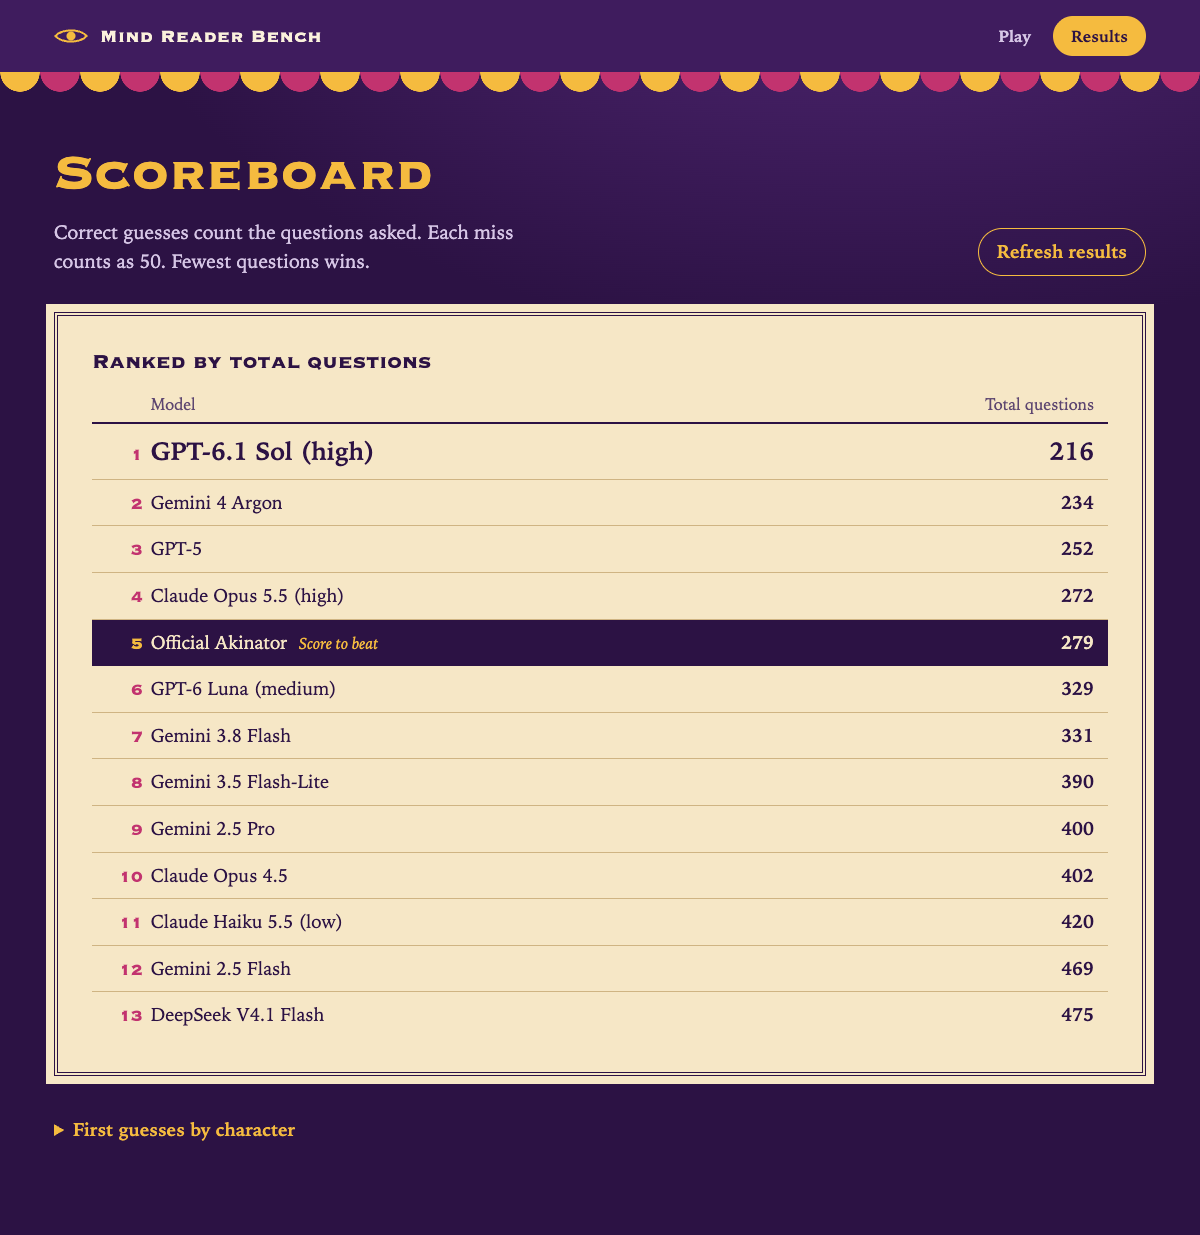
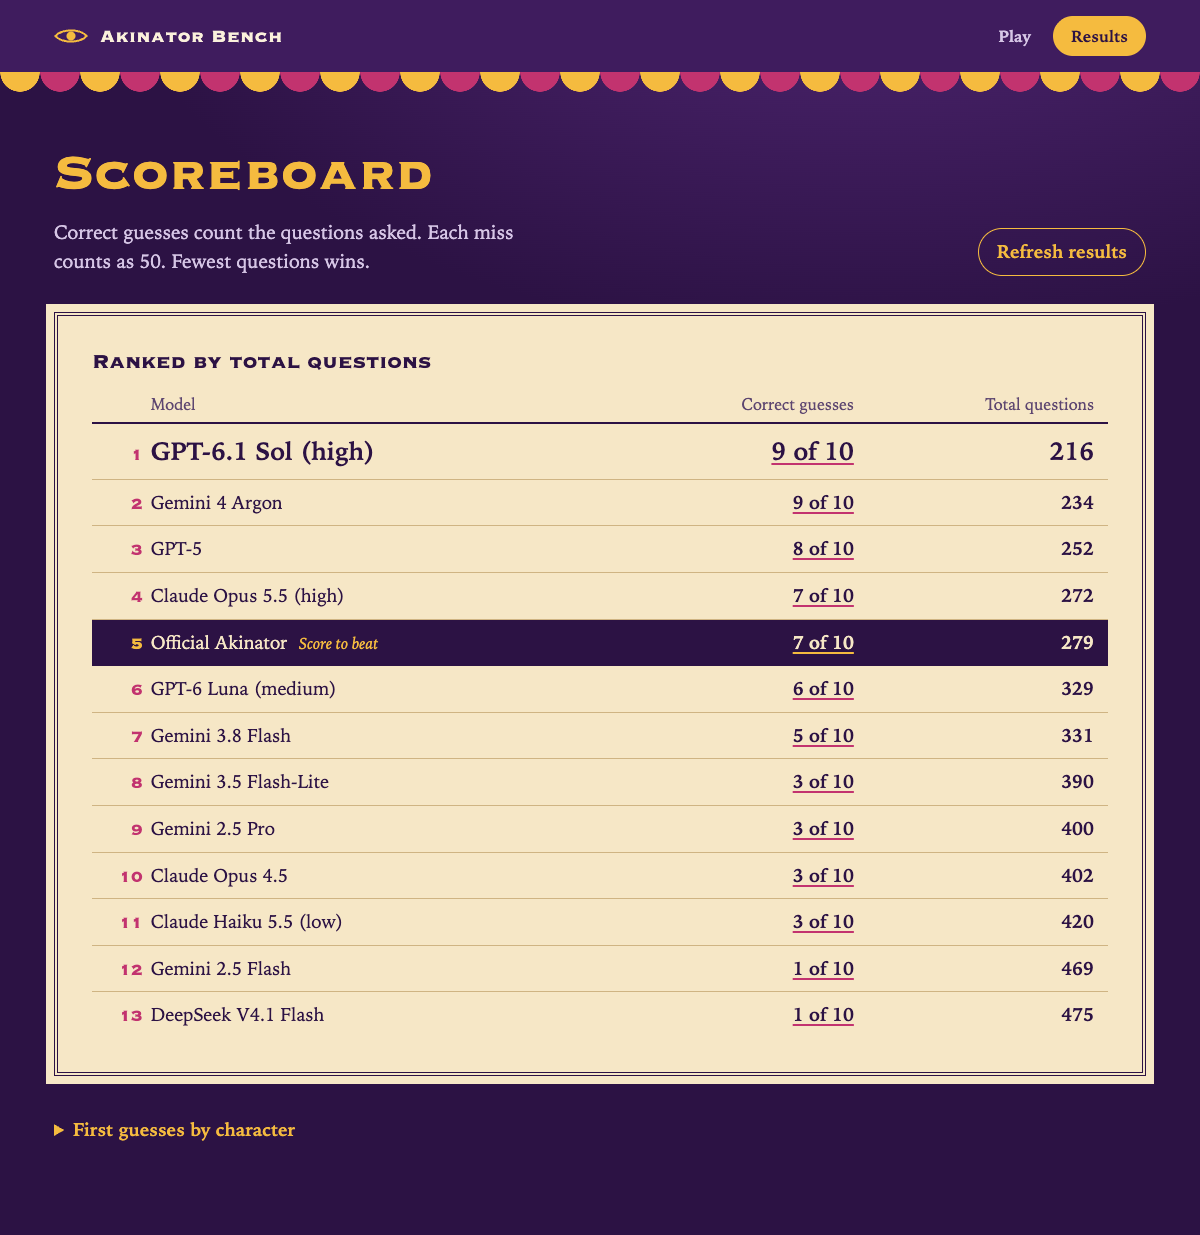
Add correct guesses and game transcripts to scoreboard

Changed region(s): [[0.6167, 0.3077, 0.7092, 0.8308], [0.0925, 0.0, 0.2467, 0.0308]]

diff --git a/public/app.js b/public/app.js
@@ -202,40 +202,156 @@ const statusLabels = {
   error: "Error",
   exhausted: "No guess",
 };
+const answerLabels = {
+  yes: "Yes",
+  no: "No",
+  probably: "Probably",
+  probably_not: "Probably not",
+  dont_know: "Don't know",
+};
 const MISS_QUESTION_COST = 50;
+const BASELINE_ID = "official";
 
-function cellFor(row, result) {
-  const cell = row.insertCell();
-  const badge = document.createElement("span");
-  badge.className = "badge";
-  badge.textContent = result ? (statusLabels[result.status] || result.status) : "Pending";
+const gameDialog = byId("game-dialog");
+let benchmark;
+
+function gamesLink(text, modelId, characterId) {
+  const link = document.createElement("a");
+  const path = [modelId, characterId].filter(Boolean).map(encodeURIComponent).join("/");
+  link.href = `#games/${path}`;
+  link.textContent = text;
+  return link;
+}
+
+function element(tag, className, text) {
+  const node = document.createElement(tag);
+  if (className) node.className = className;
+  if (text !== undefined) node.textContent = text;
+  return node;
+}
+
+function badgeFor(result) {
+  const badge = element("span", "badge", result ? (statusLabels[result.status] || result.status) : "Pending");
   if (result?.status === "correct" || result?.status === "incorrect") {
     badge.dataset.status = result.status;
   }
-  cell.append(badge);
+  return badge;
+}
 
-  if (result?.guess || Number.isInteger(result?.questions)) {
-    const detail = document.createElement("p");
-    const count = Number.isInteger(result.questions) ? `${result.questions}Q` : "";
-    detail.className = "cell-detail";
-    const detailLabel = result.detailsWithheld ? "Details withheld" : result.guess;
-    detail.textContent = [detailLabel, count].filter(Boolean).join(" / ");
+function gameSummary(result) {
+  const count = Number.isInteger(result?.questions) ? `${result.questions}Q` : "";
+  const detail = result?.detailsWithheld ? "Details withheld" : result?.guess;
+  return [detail, count].filter(Boolean).join(" / ");
+}
+
+function cellFor(row, result, modelId, characterId) {
+  const cell = row.insertCell();
+  cell.append(badgeFor(result));
+
+  const summary = gameSummary(result);
+  if (summary) {
+    const detail = element("p", "cell-detail");
+    detail.append(result.history?.length ? gamesLink(summary, modelId, characterId) : summary);
     cell.append(detail);
   }
 }
 
+function correctCount({ entries }, characters) {
+  return characters.filter(({ id }) => entries.get(id)?.status === "correct").length;
+}
+
+function modelGamesView(column) {
+  const { characters } = benchmark;
+  const games = element("ul", "game-list");
+  for (const { id, name } of characters) {
+    const result = column.entries.get(id);
+    const item = element("li");
+    const title = element("span", "game-list-name");
+    title.append(result?.history?.length ? gamesLink(name, column.id, id) : name);
+    item.append(title, badgeFor(result), element("span", "game-list-detail", gameSummary(result)));
+    games.append(item);
+  }
+  return [
+    element("h2", "", column.label),
+    element("p", "game-summary", `${correctCount(column, characters)} of ${characters.length} correct guesses. Choose a character to read its questions and answers.`),
+    games,
+  ];
+}
+
+function gameView(column, character) {
+  const result = column.entries.get(character.id);
+  const back = element("p", "game-back");
+  back.append(gamesLink(`All games for ${column.label}`, column.id));
+
+  const count = `${result.questions} ${result.questions === 1 ? "question" : "questions"}`;
+  const outcome = result.detailsWithheld
+    ? `used ${count}`
+    : result.guess ? `guessed ${result.guess} after ${count}` : `made no guess after ${count}`;
+  const summary = element("p", "game-summary");
+  summary.append(badgeFor(result), ` ${column.label} ${outcome}.`);
+
+  const turns = element("ol", "game-turns");
+  for (const { question, answer } of result.history ?? []) {
+    const turn = element("li");
+    turn.append(element("span", "", question), element("strong", "", answerLabels[answer] || answer));
+    turns.append(turn);
+  }
+
+  const view = [back, element("h2", "", character.name), summary];
+  if (column.id === BASELINE_ID) {
+    view.push(element("p", "game-note", "The official game's log records paraphrased question topics, not exact wording."));
+  }
+  const missingLog = result.detailsWithheld ? "The transcript is withheld for privacy." : "No questions were recorded for this game.";
+  view.push(result.history?.length ? turns : element("p", "game-note", missingLog));
+  return view;
+}
+
+function clearGameHash() {
+  if (location.hash) history.replaceState(null, "", location.pathname + location.search);
+}
+
+function route() {
+  const [, modelId, characterId] = location.hash.match(/^#games\/([^/]+)(?:\/([^/]+))?$/) ?? [];
+  if (!modelId) {
+    if (gameDialog.open) gameDialog.close();
+    return;
+  }
+  if (!benchmark) {
+    if (resultsView.hidden) showView(true);
+    return;
+  }
+
+  const column = benchmark.columns.find(({ id }) => encodeURIComponent(id) === modelId);
+  const character = benchmark.characters.find(({ id }) => encodeURIComponent(id) === characterId);
+  const hasGame = character && column?.entries.has(character.id);
+  if (!column || (characterId && !hasGame)) {
+    clearGameHash();
+    if (gameDialog.open) gameDialog.close();
+    return;
+  }
+
+  byId("game-body").replaceChildren(...(characterId ? gameView(column, character) : modelGamesView(column)));
+  const title = byId("game-body").querySelector("h2");
+  title.id = "game-title";
+  title.tabIndex = -1;
+  if (!gameDialog.open) gameDialog.showModal();
+  gameDialog.scrollTop = 0;
+  title.focus();
+}
+
 function renderScoreboard(columns, characters) {
-  const scores = columns.map(({ label, entries, baseline }) => {
+  const scores = columns.map((column) => {
+    const { label, entries, baseline, id } = column;
     const trials = characters.map(({ id }) => entries.get(id));
     const scored = trials.filter((trial) => trial?.status === "correct" || trial?.status === "incorrect");
     const total = scored.length === characters.length && scored.length > 0
       ? scored.reduce((sum, trial) => sum + (trial.status === "correct" ? trial.questions : MISS_QUESTION_COST), 0)
       : null;
-    return { label, total, baseline };
+    return { id, label, total, baseline, correct: correctCount(column, characters) };
   });
   scores.sort((a, b) => (a.total ?? Number.MAX_SAFE_INTEGER) - (b.total ?? Number.MAX_SAFE_INTEGER));
 
-  const rows = scores.map(({ label, total, baseline }) => {
+  const rows = scores.map(({ id, label, total, baseline, correct }) => {
     const row = document.createElement("tr");
     const name = document.createElement("th");
     name.scope = "row";
@@ -248,6 +364,9 @@ function renderScoreboard(columns, characters) {
       name.append(tag);
     }
     row.append(name);
+    const correctLink = gamesLink(`${correct} of ${characters.length}`, id);
+    correctLink.setAttribute("aria-label", `${correct} of ${characters.length} correct guesses for ${label}. View games.`);
+    row.insertCell().append(correctLink);
     row.insertCell().textContent = total ?? "Pending";
     return row;
   });
@@ -255,12 +374,12 @@ function renderScoreboard(columns, characters) {
 }
 
 function renderResults(data) {
-  const columns = [{ label: "Official Akinator", entries: new Map(Object.entries(data.baselines)), baseline: true }];
+  const columns = [{ id: BASELINE_ID, label: "Official Akinator", entries: new Map(Object.entries(data.baselines)), baseline: true }];
   for (const model of data.models) {
     const entries = data.results
       .filter((result) => result.model === model.id)
       .map((result) => [result.character, result]);
-    columns.push({ label: model.label, entries: new Map(entries) });
+    columns.push({ id: model.id, label: model.label, entries: new Map(entries) });
   }
 
   const header = document.createElement("tr");
@@ -278,11 +397,12 @@ function renderResults(data) {
     th.scope = "row";
     th.textContent = name;
     row.append(th);
-    for (const { entries } of columns) cellFor(row, entries.get(id));
+    for (const { id: modelId, entries } of columns) cellFor(row, entries.get(id), modelId, id);
     return row;
   });
   byId("score-body").replaceChildren(...rows);
 
+  benchmark = { columns, characters: data.characters };
   renderScoreboard(columns, data.characters);
   byId("results-content").hidden = false;
   if (!data.results.length) {
@@ -299,6 +419,7 @@ async function loadResults() {
   resultsStatus.textContent = "Loading results...";
   try {
     renderResults(await request("/api/results"));
+    route();
   } catch (error) {
     resultsStatus.textContent = "";
     resultsError.textContent = error.message;
@@ -322,5 +443,11 @@ function showView(showResults) {
 playButton.addEventListener("click", () => showView(false));
 resultsButton.addEventListener("click", () => showView(true));
 refreshButton.addEventListener("click", loadResults);
+addEventListener("hashchange", route);
+gameDialog.addEventListener("close", clearGameHash);
+gameDialog.addEventListener("click", (event) => {
+  if (event.target === gameDialog) gameDialog.close();
+});
 
 loadSetup();
+route();

diff --git a/public/styles.css b/public/styles.css
@@ -284,7 +284,11 @@ h1 {
 .scoreboard thead { background: none; }
 .scoreboard thead th { padding-block: 6px; border-bottom: 2px solid var(--ink); color: var(--ink-soft); font-size: 1rem; font-weight: 400; }
 .scoreboard thead th:first-child { padding-left: calc(var(--cell) + var(--rank)); }
-.scoreboard th:last-child, .scoreboard td { text-align: right; }
+.scoreboard thead th + th, .scoreboard td { text-align: right; }
+.scoreboard a { color: inherit; text-decoration-color: var(--cerise); text-decoration-thickness: 2px; text-underline-offset: 3px; }
+.scoreboard a:hover { color: var(--cerise); }
+#model-scores .baseline a { text-decoration-color: var(--saffron); }
+#model-scores .baseline a:hover { color: var(--saffron); }
 .scoreboard td { font-weight: 700; font-variant-numeric: lining-nums tabular-nums; white-space: nowrap; }
 .scoreboard tbody th, .scoreboard td { padding-block: 9px; border-color: var(--parchment-line); vertical-align: baseline; }
 .scoreboard tbody th { font-weight: 400; }
@@ -325,6 +329,44 @@ tbody tr:last-child td, tbody tr:last-child th { border-bottom: 0; }
 .badge[data-status="correct"] { background: var(--jade); color: var(--ink); }
 .badge[data-status="incorrect"] { background: #f2a3b5; color: var(--ink); }
 .cell-detail { margin: 5px 0 0; color: var(--mist); }
+.cell-detail a { color: inherit; text-underline-offset: 3px; }
+.cell-detail a:hover { color: var(--saffron); }
+
+/* A game opens as a sheet of the same playbill paper as the scoreboard. */
+#game-dialog {
+  width: min(44rem, calc(100% - 32px));
+  max-height: min(88vh, 900px);
+  padding: 0;
+  border: 4px double var(--ink);
+  outline: 8px solid var(--parchment);
+  background: var(--parchment);
+  color: var(--ink);
+}
+
+#game-dialog::backdrop { background: rgb(30 10 48 / .78); }
+#game-dialog :focus-visible { outline-color: var(--ink); }
+.game-sheet { padding: clamp(16px, 3.4vw, 32px); }
+.game-close { display: flex; justify-content: flex-end; }
+#game-dialog h2 { margin: 0; font: 700 clamp(1.7rem, 4vw, 2.3rem)/1.1 var(--poster); }
+#game-dialog a { color: inherit; text-decoration-color: var(--cerise); text-decoration-thickness: 2px; text-underline-offset: 3px; }
+#game-dialog a:hover { color: var(--cerise); }
+.game-back { margin: 0 0 10px; font-size: 1rem; }
+.game-summary { margin: 10px 0 0; }
+.game-summary .badge { margin-right: 4px; }
+.game-note { margin: 8px 0 0; color: var(--ink-soft); font-style: italic; font-size: 1rem; }
+
+.game-list, .game-turns { list-style: none; margin: 18px 0 0; padding: 0; border-top: 2px solid var(--ink); }
+.game-list li, .game-turns li { padding-block: 9px; border-bottom: 1px solid var(--parchment-line); }
+.game-list li:last-child, .game-turns li:last-child { border-bottom: 0; }
+
+.game-list li { display: grid; grid-template-columns: 1fr auto; align-items: baseline; gap: 2px 14px; }
+.game-list-name { font-weight: 700; }
+.game-list-detail { grid-column: 1 / -1; color: var(--ink-soft); font-size: 1rem; }
+
+.game-turns { counter-reset: turn; }
+.game-turns li { counter-increment: turn; display: grid; grid-template-columns: 2rem 1fr auto; align-items: baseline; gap: 12px; }
+.game-turns li::before { content: counter(turn); color: var(--cerise); font: 700 1rem var(--poster); text-align: right; }
+.game-turns strong { white-space: nowrap; }
 
 @media (max-width: 800px) {
   .play-layout { grid-template-columns: 1fr; padding-block: 60px 48px; }

diff --git a/public/index.html b/public/index.html
@@ -4,7 +4,7 @@
   <meta charset="utf-8">
   <meta name="viewport" content="width=device-width, initial-scale=1">
   <meta name="color-scheme" content="dark">
-  <title>Mind Reader Bench</title>
+  <title>Akinator Bench</title>
   <link rel="icon" href="/favicon.svg" type="image/svg+xml">
   <link rel="stylesheet" href="/styles.css">
   <script type="module" src="/app.js"></script>
@@ -17,7 +17,7 @@
           <path d="M1.5 10C7 2.5 27 2.5 32.5 10 27 17.500 7 17.500 1.500 10Z" fill="none" stroke="currentColor" stroke-width="2"/>
           <circle cx="17" cy="10" r="4.500" fill="currentColor"/>
         </svg>
-        Mind Reader Bench
+        Akinator Bench
       </div>
       <nav aria-label="Bench views">
         <button id="play-view" type="button" aria-pressed="true" aria-controls="play">Play</button>
@@ -120,7 +120,7 @@
           <table>
             <caption>Ranked by total questions</caption>
             <thead>
-              <tr><th scope="col">Model</th><th scope="col">Total questions</th></tr>
+              <tr><th scope="col">Model</th><th scope="col">Correct guesses</th><th scope="col">Total questions</th></tr>
             </thead>
             <tbody id="model-scores"></tbody>
           </table>
@@ -138,5 +138,12 @@
       </div>
     </section>
   </main>
+
+  <dialog id="game-dialog" aria-labelledby="game-title">
+    <div class="game-sheet">
+      <form method="dialog" class="game-close"><button type="submit" class="text-button">Close</button></form>
+      <div id="game-body"></div>
+    </div>
+  </dialog>
 </body>
 </html>

diff --git a/README.md b/README.md
@@ -12,26 +12,28 @@ npm start
 ```
 
 Open [http://127.0.0.1:4318](http://127.0.0.1:4318) and choose **Results**. The recorded scores are
-available without API access. Expand **First guesses by character** to inspect individual outcomes.
+available without API access. Choose a correct-guess count, or expand **First guesses by character**, to read available game transcripts.
 Set `AKINATOR_PORT` to use another port.
 
 ![Scoreboard ranking all 12 models and official Akinator by total questions](docs/screenshots/leaderboard.png)
 
-| Model or baseline | Total questions |
-| --- | ---: |
-| GPT-6.1 Sol (high) | 216 |
-| Gemini 4 Argon | 234 |
-| GPT-5 | 252 |
-| Claude Opus 5.5 (high) | 272 |
-| Official Akinator | 279 |
-| GPT-6 Luna (medium) | 329 |
-| Gemini 3.8 Flash | 331 |
-| Gemini 3.5 Flash-Lite | 390 |
-| Gemini 2.5 Pro | 400 |
-| Claude Opus 4.5 | 402 |
-| Claude Haiku 5.5 (low) | 420 |
-| Gemini 2.5 Flash | 469 |
-| DeepSeek V4.1 Flash | 475 |
+Ranked by total questions. Each incorrect guess counts as 50 questions.
+
+| Rank | Model or baseline | Correct guesses | Total questions |
+| ---: | --- | ---: | ---: |
+| 1 | GPT-6.1 Sol (high) | 9/10 | 216 |
+| 2 | Gemini 4 Argon | 9/10 | 234 |
+| 3 | GPT-5 | 8/10 | 252 |
+| 4 | Claude Opus 5.5 (high) | 7/10 | 272 |
+| 5 | Official Akinator | 7/10 | 279 |
+| 6 | GPT-6 Luna (medium) | 6/10 | 329 |
+| 7 | Gemini 3.8 Flash | 5/10 | 331 |
+| 8 | Gemini 3.5 Flash-Lite | 3/10 | 390 |
+| 9 | Gemini 2.5 Pro | 3/10 | 400 |
+| 10 | Claude Opus 4.5 | 3/10 | 402 |
+| 11 | Claude Haiku 5.5 (low) | 3/10 | 420 |
+| 12 | Gemini 2.5 Flash | 1/10 | 469 |
+| 13 | DeepSeek V4.1 Flash | 1/10 | 475 |
 
 ## Play or run a new benchmark
 
